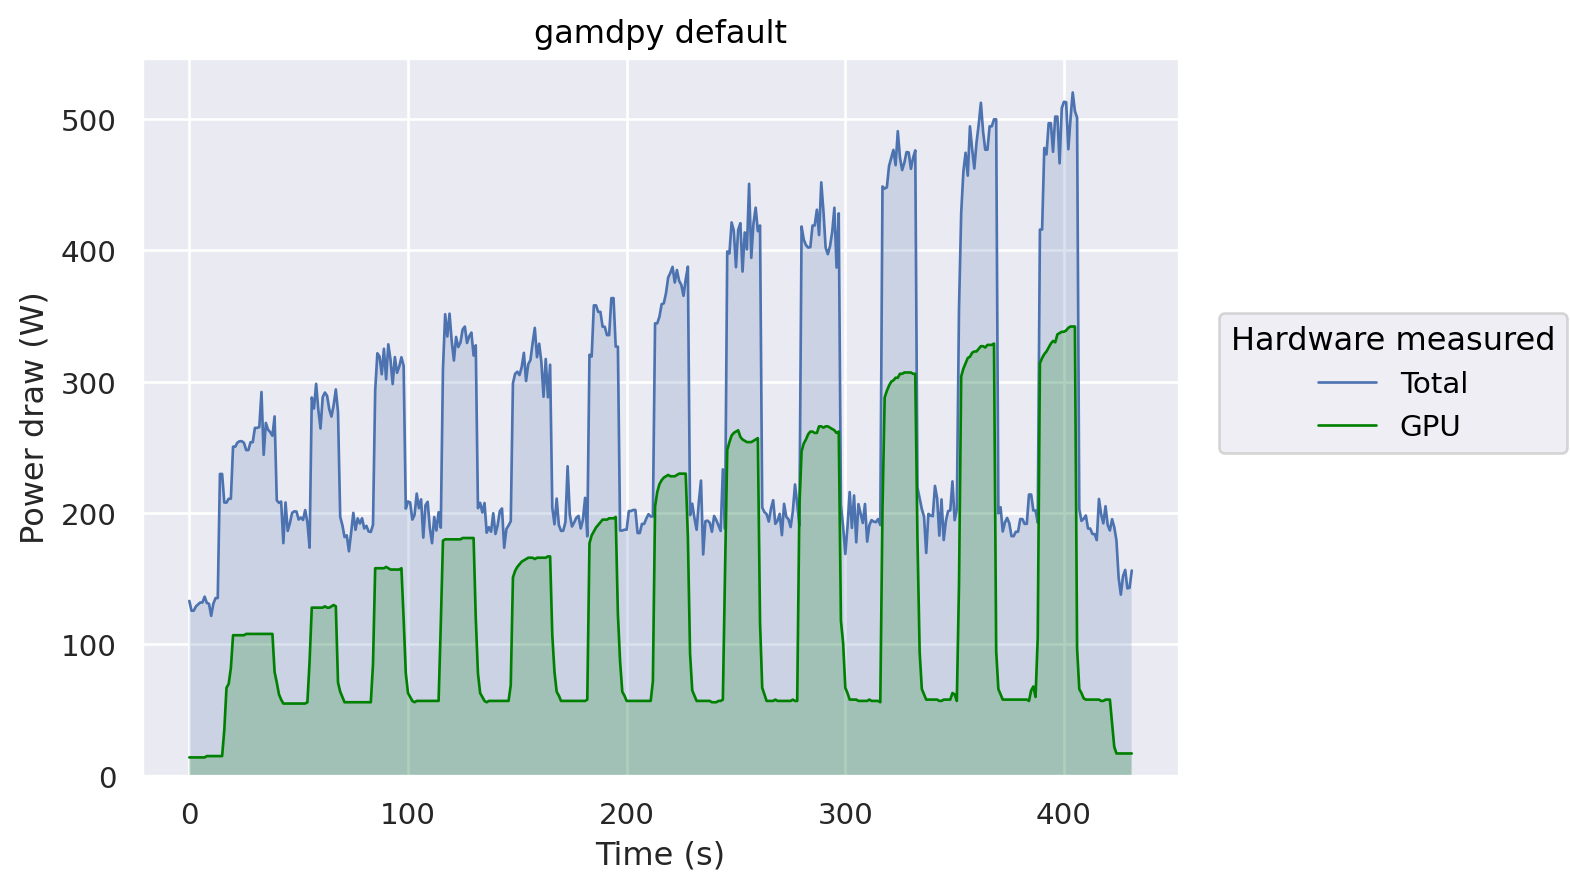
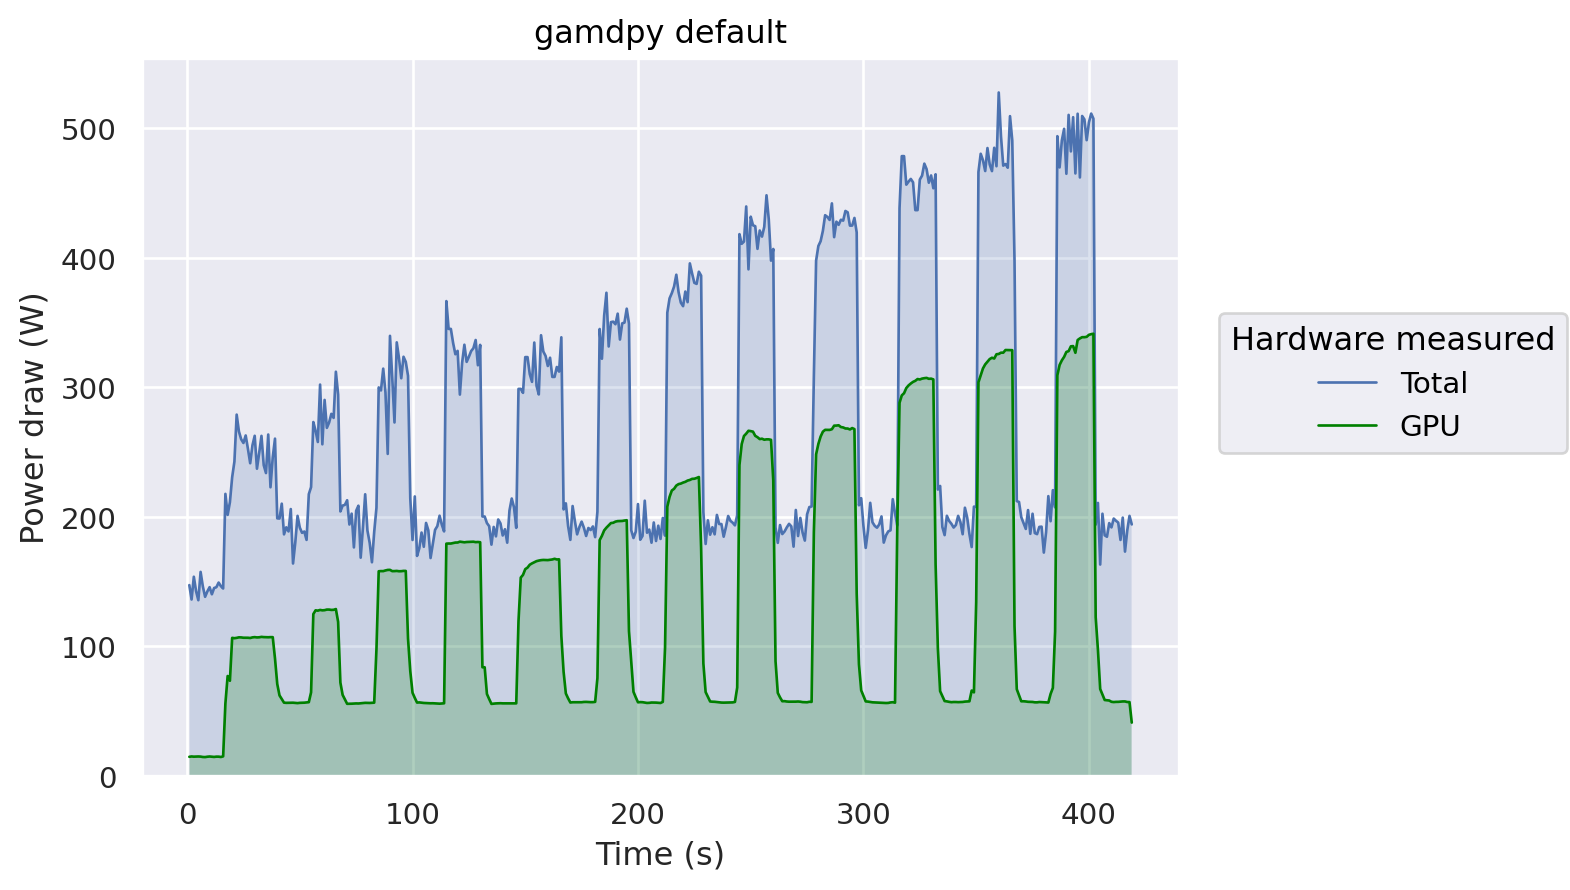
change measurement functionality: now measures for the duration of the benchmark instead of set amount of samples

diff --git a/main.py b/main.py
@@ -2,52 +2,61 @@ import argparse
 import asyncio
 import multiprocessing
 import subprocess
-import sys
 import time
 
 from ENG110_python import get_eng110_data
 
 
-async def measure_total(samples: int) -> str:
+async def measure_total(stop_event: asyncio.Event) -> str:
     """
-    Returns measurements from ENG110 power meter as a csv-formatted string. Includes
-    power readings (W) and timestamp sampled once per second.
+    Returns power draw measurements from ENG110 power meter as a csv-formatted string.
 
-    Format: time (HH:MM:SS), power draw (W)
+    Format: time (s), power draw (W)
     """
 
-    csv = ""
+    csv = "time,power\n"
+    i = 1
 
-    for _ in range(samples):
+    while not stop_event.is_set():
         p = get_eng110_data()
         t = time.localtime()
 
-        csv += "{}:{}:{},{:.2f}\n".format(
-            str(t.tm_hour).zfill(2),
-            str(t.tm_min).zfill(2),
-            str(t.tm_sec).zfill(2),
-            p[2],
-        )
+        csv += "{},{:.2f}\n".format(i, p[2])
 
-        while t.tm_sec == time.localtime().tm_sec:  # while time is same waits 0.1 secs
+        # Pause sampling until next second
+        while t.tm_sec == time.localtime().tm_sec and not stop_event.is_set():
             await asyncio.sleep(0.1)
+
+        i += 1
 
     return csv
 
 
-async def measure_gpu(samples: int) -> str:
+async def measure_gpu(stop_event: asyncio.Event) -> str:
     """
-    Runs nvidia-smi and returns measurements as csv-formatted string.
+    Returns power draw measurements from nvidia-smi as a csv-formatted string.
 
-    Format: time (HH:MM:SS), gpu id, power draw (W), gtemp (C), mtemp (C)
+    Format: time (s), power draw (W)
     """
 
-    proc = await asyncio.create_subprocess_shell(
-        f"nvidia-smi dmon -i 0 -s p -o T --format=csv,nounit,noheader -c {samples}",
-        stdout=asyncio.subprocess.PIPE,
-    )
-    stdout, _ = await proc.communicate()
-    csv = stdout.decode().replace(" ", "")
+    csv = "time,power\n"
+    i = 1
+
+    while not stop_event.is_set():
+        proc = await asyncio.create_subprocess_shell(
+            f"nvidia-smi -i 0 --query-gpu=power.draw --format=csv,nounits,noheader",
+            stdout=asyncio.subprocess.PIPE,
+        )
+        stdout, _ = await proc.communicate()
+        t = time.localtime()
+
+        csv += "{},{}".format(i, stdout.decode())
+
+        # Pause sampling until next second
+        while t.tm_sec == time.localtime().tm_sec and not stop_event.is_set():
+            await asyncio.sleep(0.1)
+
+        i += 1
 
     return csv
 
@@ -59,39 +68,36 @@ def run_bench() -> None:
 
     time.sleep(15)  # for measuring pre-benchmark idle power draw
     proc = subprocess.run(
-        [
-            "python3",
-            "benchmark_LJ.py",
-            "default",
-        ],
-        capture_output=True,
+        ["python3", "benchmark_LJ.py", "default"], capture_output=True
     )
 
 
-async def main(samples: int, identifier: str) -> None:
+async def main(identifier: str) -> None:
     # Start benchmark as its own process
     proc_bench = multiprocessing.Process(target=run_bench)
     proc_bench.start()
 
-    # Start measurement tools
-    asyncio.create_task(measure_gpu(samples))
-    asyncio.create_task(measure_total(samples))
+    # Stop event for measuring tasks
+    stop_event = asyncio.Event()
 
-    # Wait for measurements to be done
-    proc_gpu, proc_total = await asyncio.gather(
-        measure_gpu(samples), measure_total(samples)
-    )
+    # Start measurement tasks
+    proc_gpu = asyncio.create_task(measure_gpu(stop_event))
+    proc_total = asyncio.create_task(measure_total(stop_event))
 
-    # Wait for benchmark to be done
+    # Stop measurement tasks when benchmark has concluded
     while proc_bench.is_alive():
         await asyncio.sleep(0.5)
-    proc_bench.join()
+    stop_event.set()
+
+    # Get measurement data
+    data_gpu = await proc_gpu
+    data_total = await proc_total
 
     # Save data to files
-    with open(f"csv/{identifier}-gpu.csv", "w") as f:
-        f.write("time,gpu,power,gtemp,mtemp\n" + proc_gpu)
-    with open(f"csv/{identifier}-total.csv", "w") as f:
-        f.write("time,power\n" + proc_total)
+    with open(f"data/{identifier}-gpu.csv", "w") as f:
+        f.write(data_gpu)
+    with open(f"data/{identifier}-total.csv", "w") as f:
+        f.write(data_total)
 
 
 if __name__ == "__main__":
@@ -101,23 +107,10 @@ if __name__ == "__main__":
         "--id",
         type=str,
         nargs="?",
+        metavar="string",
         default="default",
-        metavar="name",
-        help="unique identifier for this run",
-    )
-    p.add_argument(
-        "-s",
-        "--samples",
-        type=int,
-        nargs="?",
-        default=435,
-        metavar="n",
-        help="amount of samples to run (1 sample/sec)",
+        help="identifier for this run (will overwrite data if not unique)",
     )
     args = p.parse_args()
 
-    if args.samples <= 0:
-        p.print_help()
-        sys.exit(1)
-
-    asyncio.run(main(samples=args.samples, identifier=args.id))
+    asyncio.run(main(identifier=args.id))

diff --git a/notebook.md b/notebook.md
@@ -12,13 +12,8 @@ import seaborn.objects as so
 ```python
 identifier = "default"  # FIXME: set identifier of csv dataset
 
-gpu = pd.read_csv(f"csv/{identifier}-gpu.csv")
-gpu = pd.DataFrame({
-    "time": gpu["time"],
-    "power": gpu["power"],
-})
-
-total = pd.read_csv(f"csv/{identifier}-total.csv")
+gpu = pd.read_csv(f"data/{identifier}-gpu.csv")
+total = pd.read_csv(f"data/{identifier}-total.csv")
 
 combined = pd.merge(gpu, total, how="inner", on="time", suffixes=("_gpu", "_total"))
 ```
@@ -32,7 +27,7 @@ Displays two graphs stacked on top of each other. Easily readable.
 
 ```python
 (
-    so.Plot(data=combined, x=combined.index)
+    so.Plot(data=combined, x=combined.time)
     .add(so.Area(edgewidth=0), y="power_total")
     .add(so.Line(linewidth=1), y="power_total", label="Total")
     .add(so.Area(edgewidth=0, color="green"), y="power_gpu")
@@ -62,7 +57,7 @@ Displays two graphs side by side. Might have a purpose in the report later on.
 
 ```python
 (
-    so.Plot(data=combined, x=combined.index)
+    so.Plot(data=combined, x=combined.time)
     .pair(y=["power_gpu", "power_total"])
     .add(so.Area(edgewidth=0)).add(so.Line(linewidth=1))
     .label(
@@ -90,7 +85,7 @@ Displays the interval between two y-values. Looks kinda goofy at this point.
 
 ```python
 (
-    so.Plot(combined, x=combined.index, ymin="power_gpu", ymax="power_total")
+    so.Plot(combined, x=combined.time, ymin="power_gpu", ymax="power_total")
     .add(so.Band(edgewidth=1))
     .label(
         x="Time (sec)",
